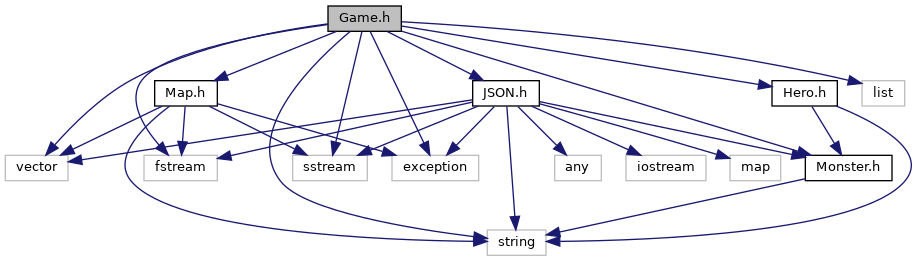
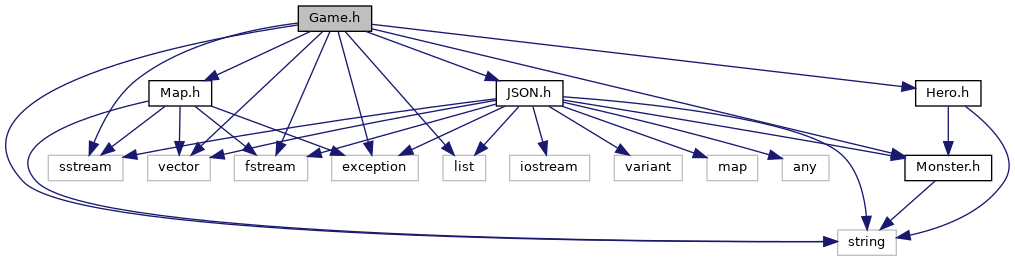
Update gh-pages to output generated at 74e3ce2

diff --git a/JSON_8h_source.html b/JSON_8h_source.html
@@ -79,60 +79,74 @@ $(function() {
 <div class="line"><a name="l00020"></a><span class="lineno">   20</span>&#160;<span class="preprocessor">#include &lt;fstream&gt;</span></div>
 <div class="line"><a name="l00021"></a><span class="lineno">   21</span>&#160;<span class="preprocessor">#include &lt;sstream&gt;</span></div>
 <div class="line"><a name="l00022"></a><span class="lineno">   22</span>&#160;<span class="preprocessor">#include &lt;iostream&gt;</span></div>
-<div class="line"><a name="l00023"></a><span class="lineno">   23</span>&#160; </div>
-<div class="line"><a name="l00024"></a><span class="lineno"><a class="line" href="classJSON.html">   24</a></span>&#160;<span class="keyword">class </span><a class="code" href="classJSON.html">JSON</a> {</div>
-<div class="line"><a name="l00025"></a><span class="lineno">   25</span>&#160;<span class="keyword">public</span>:</div>
-<div class="line"><a name="l00030"></a><span class="lineno">   30</span>&#160;    <a class="code" href="classJSON.html#aba4f484f3ee84128f50ffd4d3b20ccf1">JSON</a>(<span class="keyword">const</span> std::map&lt;std::string, std::any&gt;&amp;);</div>
-<div class="line"><a name="l00031"></a><span class="lineno">   31</span>&#160;        </div>
-<div class="line"><a name="l00032"></a><span class="lineno">   32</span>&#160;    <span class="keyword">template</span> &lt;<span class="keyword">typename</span> T&gt;</div>
-<div class="line"><a name="l00033"></a><span class="lineno">   33</span>&#160;    T get(std::string key){</div>
-<div class="line"><a name="l00034"></a><span class="lineno">   34</span>&#160;        std::string value =  std::any_cast&lt;std::string&gt;(content[key]);</div>
-<div class="line"><a name="l00035"></a><span class="lineno">   35</span>&#160;        std::any converted;</div>
-<div class="line"><a name="l00036"></a><span class="lineno">   36</span>&#160;        <span class="keywordflow">if</span> (std::is_same&lt;T, int&gt;::value){</div>
-<div class="line"><a name="l00037"></a><span class="lineno">   37</span>&#160;            converted=(std::stoi(value));</div>
-<div class="line"><a name="l00038"></a><span class="lineno">   38</span>&#160;        }<span class="keywordflow">else</span> <span class="keywordflow">if</span>(std::is_same&lt;T, float&gt;::value){</div>
-<div class="line"><a name="l00039"></a><span class="lineno">   39</span>&#160;            converted=(std::stof(value));</div>
-<div class="line"><a name="l00040"></a><span class="lineno">   40</span>&#160;        }<span class="keywordflow">else</span> <span class="keywordflow">if</span>(std::is_same&lt;T, std::string&gt;::value){</div>
-<div class="line"><a name="l00041"></a><span class="lineno">   41</span>&#160;            converted=value;</div>
-<div class="line"><a name="l00042"></a><span class="lineno">   42</span>&#160;        }</div>
-<div class="line"><a name="l00043"></a><span class="lineno">   43</span>&#160;        </div>
-<div class="line"><a name="l00044"></a><span class="lineno">   44</span>&#160;        <span class="keywordflow">return</span> std::any_cast&lt;T&gt;(converted);</div>
-<div class="line"><a name="l00045"></a><span class="lineno">   45</span>&#160;    }</div>
-<div class="line"><a name="l00046"></a><span class="lineno">   46</span>&#160; </div>
-<div class="line"><a name="l00047"></a><span class="lineno">   47</span>&#160;    <span class="keywordtype">int</span> count(std::string);</div>
-<div class="line"><a name="l00055"></a><span class="lineno">   55</span>&#160;    <span class="keywordtype">bool</span> <a class="code" href="classJSON.html#acd65a0b1e2ceda335856f470a76adff0">isNumber</a>(<span class="keyword">const</span> std::string&amp;);</div>
-<div class="line"><a name="l00062"></a><span class="lineno">   62</span>&#160;    <span class="keyword">static</span> std::vector&lt;std::string&gt; <a class="code" href="classJSON.html#a632fd6947dc1de83bd3088c0774d1295">split</a>(<span class="keyword">const</span> std::string&amp;, <span class="keywordtype">char</span>);</div>
-<div class="line"><a name="l00069"></a><span class="lineno">   69</span>&#160;    <span class="keyword">static</span> std::vector&lt;std::string&gt; <a class="code" href="classJSON.html#a624b10e5bb22197f5e3818589afcb5a6">splitRowsJSON</a>(<span class="keyword">const</span> std::string&amp;);</div>
-<div class="line"><a name="l00076"></a><span class="lineno">   76</span>&#160;    <span class="keyword">static</span> std::string <a class="code" href="classJSON.html#af7161d083a7d4ea5ff0c76bb8a2fe7f4">removeJSONSpaces</a>(std::string);</div>
-<div class="line"><a name="l00083"></a><span class="lineno">   83</span>&#160;    <span class="keyword">static</span> <a class="code" href="classJSON.html">JSON</a> <a class="code" href="classJSON.html#a95fcb53d04ca4e9fcd8117880437ca4d">parseString</a>(<span class="keyword">const</span> std::string&amp;);</div>
-<div class="line"><a name="l00090"></a><span class="lineno">   90</span>&#160;    <span class="keyword">static</span> <a class="code" href="classJSON.html">JSON</a> <a class="code" href="classJSON.html#a928b250d7dcb828898e6814cb32c6182">parseStream</a>(std::ifstream&amp;);</div>
-<div class="line"><a name="l00097"></a><span class="lineno">   97</span>&#160;    <span class="keyword">static</span> <a class="code" href="classJSON.html">JSON</a> <a class="code" href="classJSON.html#a1c04537d4deced04d31fd48ae7009c54">parseFromFile</a>(<span class="keyword">const</span> std::string&amp;);</div>
-<div class="line"><a name="l00103"></a><span class="lineno">  103</span>&#160;    <span class="keywordtype">void</span> <a class="code" href="classJSON.html#a820f6bd7c781c3710592ddc7c66233a3">deleteCharacters</a>(<span class="keyword">const</span> std::vector&lt;Monster*&gt;&amp;);</div>
-<div class="line"><a name="l00104"></a><span class="lineno">  104</span>&#160; </div>
-<div class="line"><a name="l00105"></a><span class="lineno"><a class="line" href="classJSON_1_1ParseException.html">  105</a></span>&#160;    <span class="keyword">class </span><a class="code" href="classJSON_1_1ParseException.html">ParseException</a> : std::exception</div>
-<div class="line"><a name="l00106"></a><span class="lineno">  106</span>&#160;    {</div>
-<div class="line"><a name="l00107"></a><span class="lineno">  107</span>&#160;        <span class="keyword">public</span>:</div>
-<div class="line"><a name="l00108"></a><span class="lineno">  108</span>&#160;        <a class="code" href="classJSON_1_1ParseException.html">ParseException</a>(){}</div>
-<div class="line"><a name="l00109"></a><span class="lineno">  109</span>&#160;    };</div>
-<div class="line"><a name="l00110"></a><span class="lineno">  110</span>&#160; </div>
-<div class="line"><a name="l00111"></a><span class="lineno">  111</span>&#160;    <span class="keyword">protected</span>:</div>
-<div class="line"><a name="l00112"></a><span class="lineno">  112</span>&#160;        std::map&lt;std::string, std::any&gt; content;</div>
-<div class="line"><a name="l00113"></a><span class="lineno">  113</span>&#160;};</div>
-<div class="line"><a name="l00114"></a><span class="lineno">  114</span>&#160; </div>
-<div class="line"><a name="l00115"></a><span class="lineno">  115</span>&#160;<span class="preprocessor">#endif</span></div>
+<div class="line"><a name="l00023"></a><span class="lineno">   23</span>&#160;<span class="preprocessor">#include &lt;variant&gt;</span></div>
+<div class="line"><a name="l00024"></a><span class="lineno">   24</span>&#160;<span class="preprocessor">#include &lt;list&gt;</span></div>
+<div class="line"><a name="l00025"></a><span class="lineno"><a class="line" href="classJSON.html">   25</a></span>&#160;<span class="keyword">class </span><a class="code" href="classJSON.html">JSON</a> {</div>
+<div class="line"><a name="l00026"></a><span class="lineno">   26</span>&#160;<span class="keyword">public</span>:</div>
+<div class="line"><a name="l00031"></a><span class="lineno">   31</span>&#160;    <a class="code" href="classJSON.html#aba4f484f3ee84128f50ffd4d3b20ccf1">JSON</a>(<span class="keyword">const</span> std::map&lt;std::string, std::any&gt;&amp;);</div>
+<div class="line"><a name="l00032"></a><span class="lineno">   32</span>&#160; </div>
+<div class="line"><a name="l00033"></a><span class="lineno">   33</span>&#160;    <span class="keyword">typedef</span> std::list&lt;std::variant&lt;std::string, int, double, float&gt;&gt; list; </div>
+<div class="line"><a name="l00034"></a><span class="lineno">   34</span>&#160;    </div>
+<div class="line"><a name="l00035"></a><span class="lineno">   35</span>&#160;<span class="comment">/*else if(std::is_same&lt;T, JSON::list&gt;::value){</span></div>
+<div class="line"><a name="l00036"></a><span class="lineno">   36</span>&#160;<span class="comment">            JSON::list myList;</span></div>
+<div class="line"><a name="l00037"></a><span class="lineno">   37</span>&#160;<span class="comment">            myList.push_back(&quot;asd&quot;);</span></div>
+<div class="line"><a name="l00038"></a><span class="lineno">   38</span>&#160;<span class="comment">            converted = myList;</span></div>
+<div class="line"><a name="l00039"></a><span class="lineno">   39</span>&#160;<span class="comment">        }</span></div>
+<div class="line"><a name="l00040"></a><span class="lineno">   40</span>&#160;<span class="comment">*/</span></div>
+<div class="line"><a name="l00041"></a><span class="lineno">   41</span>&#160; </div>
+<div class="line"><a name="l00042"></a><span class="lineno">   42</span>&#160;    <span class="keyword">template</span> &lt;<span class="keyword">typename</span> T&gt;</div>
+<div class="line"><a name="l00043"></a><span class="lineno">   43</span>&#160;    T get(std::string key){</div>
+<div class="line"><a name="l00044"></a><span class="lineno">   44</span>&#160;        std::string value =  std::any_cast&lt;std::string&gt;(content[key]);</div>
+<div class="line"><a name="l00045"></a><span class="lineno">   45</span>&#160;        std::any converted;</div>
+<div class="line"><a name="l00046"></a><span class="lineno">   46</span>&#160;        <span class="keywordflow">if</span> (std::is_same&lt;T, int&gt;::value){</div>
+<div class="line"><a name="l00047"></a><span class="lineno">   47</span>&#160;            converted=(std::stoi(value));</div>
+<div class="line"><a name="l00048"></a><span class="lineno">   48</span>&#160;        }<span class="keywordflow">else</span> <span class="keywordflow">if</span>(std::is_same&lt;T, float&gt;::value){</div>
+<div class="line"><a name="l00049"></a><span class="lineno">   49</span>&#160;            converted=(std::stof(value));</div>
+<div class="line"><a name="l00050"></a><span class="lineno">   50</span>&#160;        }<span class="keywordflow">else</span> <span class="keywordflow">if</span>(std::is_same&lt;T, std::string&gt;::value){</div>
+<div class="line"><a name="l00051"></a><span class="lineno">   51</span>&#160;            converted=value;</div>
+<div class="line"><a name="l00052"></a><span class="lineno">   52</span>&#160;        }<span class="keywordflow">if</span> (std::is_same&lt;T, JSON::list&gt;::value){</div>
+<div class="line"><a name="l00053"></a><span class="lineno">   53</span>&#160;            converted = listFromValues(value);</div>
+<div class="line"><a name="l00054"></a><span class="lineno">   54</span>&#160;        }</div>
+<div class="line"><a name="l00055"></a><span class="lineno">   55</span>&#160;        <span class="keywordflow">return</span> std::any_cast&lt;T&gt;(converted);</div>
+<div class="line"><a name="l00056"></a><span class="lineno">   56</span>&#160;    }</div>
+<div class="line"><a name="l00057"></a><span class="lineno">   57</span>&#160; </div>
+<div class="line"><a name="l00058"></a><span class="lineno">   58</span>&#160;    </div>
+<div class="line"><a name="l00059"></a><span class="lineno">   59</span>&#160; </div>
+<div class="line"><a name="l00060"></a><span class="lineno">   60</span>&#160;    <span class="keywordtype">int</span> count(std::string);</div>
+<div class="line"><a name="l00068"></a><span class="lineno">   68</span>&#160;    <span class="keywordtype">bool</span> <a class="code" href="classJSON.html#acd65a0b1e2ceda335856f470a76adff0">isNumber</a>(<span class="keyword">const</span> std::string&amp;);</div>
+<div class="line"><a name="l00075"></a><span class="lineno">   75</span>&#160;    <span class="keyword">static</span> std::vector&lt;std::string&gt; <a class="code" href="classJSON.html#a632fd6947dc1de83bd3088c0774d1295">split</a>(<span class="keyword">const</span> std::string&amp;, <span class="keywordtype">char</span>);</div>
+<div class="line"><a name="l00082"></a><span class="lineno">   82</span>&#160;    <span class="keyword">static</span> std::vector&lt;std::string&gt; <a class="code" href="classJSON.html#a624b10e5bb22197f5e3818589afcb5a6">splitRowsJSON</a>(<span class="keyword">const</span> std::string&amp;);</div>
+<div class="line"><a name="l00089"></a><span class="lineno">   89</span>&#160;    <span class="keyword">static</span> std::string <a class="code" href="classJSON.html#af7161d083a7d4ea5ff0c76bb8a2fe7f4">removeJSONSpaces</a>(std::string);</div>
+<div class="line"><a name="l00096"></a><span class="lineno">   96</span>&#160;    <span class="keyword">static</span> <a class="code" href="classJSON.html">JSON</a> <a class="code" href="classJSON.html#a95fcb53d04ca4e9fcd8117880437ca4d">parseString</a>(<span class="keyword">const</span> std::string&amp;);</div>
+<div class="line"><a name="l00103"></a><span class="lineno">  103</span>&#160;    <span class="keyword">static</span> <a class="code" href="classJSON.html">JSON</a> <a class="code" href="classJSON.html#a928b250d7dcb828898e6814cb32c6182">parseStream</a>(std::ifstream&amp;);</div>
+<div class="line"><a name="l00110"></a><span class="lineno">  110</span>&#160;    <span class="keyword">static</span> <a class="code" href="classJSON.html">JSON</a> <a class="code" href="classJSON.html#a1c04537d4deced04d31fd48ae7009c54">parseFromFile</a>(<span class="keyword">const</span> std::string&amp;);</div>
+<div class="line"><a name="l00116"></a><span class="lineno">  116</span>&#160;    <span class="keywordtype">void</span> <a class="code" href="classJSON.html#a820f6bd7c781c3710592ddc7c66233a3">deleteCharacters</a>(<span class="keyword">const</span> std::vector&lt;Monster*&gt;&amp;);</div>
+<div class="line"><a name="l00117"></a><span class="lineno">  117</span>&#160; </div>
+<div class="line"><a name="l00118"></a><span class="lineno"><a class="line" href="classJSON_1_1ParseException.html">  118</a></span>&#160;    <span class="keyword">class </span><a class="code" href="classJSON_1_1ParseException.html">ParseException</a> : std::exception</div>
+<div class="line"><a name="l00119"></a><span class="lineno">  119</span>&#160;    {</div>
+<div class="line"><a name="l00120"></a><span class="lineno">  120</span>&#160;        <span class="keyword">public</span>:</div>
+<div class="line"><a name="l00121"></a><span class="lineno">  121</span>&#160;        <a class="code" href="classJSON_1_1ParseException.html">ParseException</a>(){}</div>
+<div class="line"><a name="l00122"></a><span class="lineno">  122</span>&#160;    };</div>
+<div class="line"><a name="l00123"></a><span class="lineno">  123</span>&#160; </div>
+<div class="line"><a name="l00124"></a><span class="lineno">  124</span>&#160;    <span class="keyword">protected</span>:</div>
+<div class="line"><a name="l00125"></a><span class="lineno">  125</span>&#160;        <span class="keyword">static</span> std::list&lt;std::variant&lt;std::string, int, double, float&gt;&gt; listFromValues(std::string);</div>
+<div class="line"><a name="l00126"></a><span class="lineno">  126</span>&#160;        std::map&lt;std::string, std::any&gt; content;</div>
+<div class="line"><a name="l00127"></a><span class="lineno">  127</span>&#160;};</div>
+<div class="line"><a name="l00128"></a><span class="lineno">  128</span>&#160; </div>
+<div class="line"><a name="l00129"></a><span class="lineno">  129</span>&#160;<span class="preprocessor">#endif</span></div>
 </div><!-- fragment --></div><!-- contents -->
 <div class="ttc" id="aclassJSON_html_a624b10e5bb22197f5e3818589afcb5a6"><div class="ttname"><a href="classJSON.html#a624b10e5bb22197f5e3818589afcb5a6">JSON::splitRowsJSON</a></div><div class="ttdeci">static std::vector&lt; std::string &gt; splitRowsJSON(const std::string &amp;)</div><div class="ttdoc">Specific splitting method for JSON files, responsible for finding the JSON rows in a given JSON strin...</div><div class="ttdef"><b>Definition:</b> JSON.cpp:46</div></div>
-<div class="ttc" id="aclassJSON_html_a820f6bd7c781c3710592ddc7c66233a3"><div class="ttname"><a href="classJSON.html#a820f6bd7c781c3710592ddc7c66233a3">JSON::deleteCharacters</a></div><div class="ttdeci">void deleteCharacters(const std::vector&lt; Monster * &gt; &amp;)</div><div class="ttdoc">Delete every existing Character object given as input.</div><div class="ttdef"><b>Definition:</b> JSON.cpp:89</div></div>
-<div class="ttc" id="aclassJSON_html_a928b250d7dcb828898e6814cb32c6182"><div class="ttname"><a href="classJSON.html#a928b250d7dcb828898e6814cb32c6182">JSON::parseStream</a></div><div class="ttdeci">static JSON parseStream(std::ifstream &amp;)</div><div class="ttdoc">JSON parser method, takes an ifstream as an input and returns an object of the JSON class.</div><div class="ttdef"><b>Definition:</b> JSON.cpp:149</div></div>
-<div class="ttc" id="aclassJSON_html_a95fcb53d04ca4e9fcd8117880437ca4d"><div class="ttname"><a href="classJSON.html#a95fcb53d04ca4e9fcd8117880437ca4d">JSON::parseString</a></div><div class="ttdeci">static JSON parseString(const std::string &amp;)</div><div class="ttdoc">JSON parser method. Takes a filepath as input and returns an object of the JSON class.</div><div class="ttdef"><b>Definition:</b> JSON.cpp:98</div></div>
-<div class="ttc" id="aclassJSON_html_af7161d083a7d4ea5ff0c76bb8a2fe7f4"><div class="ttname"><a href="classJSON.html#af7161d083a7d4ea5ff0c76bb8a2fe7f4">JSON::removeJSONSpaces</a></div><div class="ttdeci">static std::string removeJSONSpaces(std::string)</div><div class="ttdoc">Specific whitespace remover method for JSON files, responsible for removing whitespaces from a given ...</div><div class="ttdef"><b>Definition:</b> JSON.cpp:71</div></div>
+<div class="ttc" id="aclassJSON_html_a820f6bd7c781c3710592ddc7c66233a3"><div class="ttname"><a href="classJSON.html#a820f6bd7c781c3710592ddc7c66233a3">JSON::deleteCharacters</a></div><div class="ttdeci">void deleteCharacters(const std::vector&lt; Monster * &gt; &amp;)</div><div class="ttdoc">Delete every existing Character object given as input.</div><div class="ttdef"><b>Definition:</b> JSON.cpp:94</div></div>
+<div class="ttc" id="aclassJSON_html_a928b250d7dcb828898e6814cb32c6182"><div class="ttname"><a href="classJSON.html#a928b250d7dcb828898e6814cb32c6182">JSON::parseStream</a></div><div class="ttdeci">static JSON parseStream(std::ifstream &amp;)</div><div class="ttdoc">JSON parser method, takes an ifstream as an input and returns an object of the JSON class.</div><div class="ttdef"><b>Definition:</b> JSON.cpp:175</div></div>
+<div class="ttc" id="aclassJSON_html_a95fcb53d04ca4e9fcd8117880437ca4d"><div class="ttname"><a href="classJSON.html#a95fcb53d04ca4e9fcd8117880437ca4d">JSON::parseString</a></div><div class="ttdeci">static JSON parseString(const std::string &amp;)</div><div class="ttdoc">JSON parser method. Takes a filepath as input and returns an object of the JSON class.</div><div class="ttdef"><b>Definition:</b> JSON.cpp:121</div></div>
+<div class="ttc" id="aclassJSON_html_af7161d083a7d4ea5ff0c76bb8a2fe7f4"><div class="ttname"><a href="classJSON.html#af7161d083a7d4ea5ff0c76bb8a2fe7f4">JSON::removeJSONSpaces</a></div><div class="ttdeci">static std::string removeJSONSpaces(std::string)</div><div class="ttdoc">Specific whitespace remover method for JSON files, responsible for removing whitespaces from a given ...</div><div class="ttdef"><b>Definition:</b> JSON.cpp:76</div></div>
 <div class="ttc" id="aclassJSON_html_a632fd6947dc1de83bd3088c0774d1295"><div class="ttname"><a href="classJSON.html#a632fd6947dc1de83bd3088c0774d1295">JSON::split</a></div><div class="ttdeci">static std::vector&lt; std::string &gt; split(const std::string &amp;, char)</div><div class="ttdoc">Utility method for handling strings, works similarly to other programming languages' split method.</div><div class="ttdef"><b>Definition:</b> JSON.cpp:18</div></div>
-<div class="ttc" id="aclassJSON_html_a1c04537d4deced04d31fd48ae7009c54"><div class="ttname"><a href="classJSON.html#a1c04537d4deced04d31fd48ae7009c54">JSON::parseFromFile</a></div><div class="ttdeci">static JSON parseFromFile(const std::string &amp;)</div><div class="ttdoc">JSON parser method, takes a string as an input and returns an object of the JSON class.</div><div class="ttdef"><b>Definition:</b> JSON.cpp:166</div></div>
+<div class="ttc" id="aclassJSON_html_a1c04537d4deced04d31fd48ae7009c54"><div class="ttname"><a href="classJSON.html#a1c04537d4deced04d31fd48ae7009c54">JSON::parseFromFile</a></div><div class="ttdeci">static JSON parseFromFile(const std::string &amp;)</div><div class="ttdoc">JSON parser method, takes a string as an input and returns an object of the JSON class.</div><div class="ttdef"><b>Definition:</b> JSON.cpp:192</div></div>
 <div class="ttc" id="aclassJSON_html_acd65a0b1e2ceda335856f470a76adff0"><div class="ttname"><a href="classJSON.html#acd65a0b1e2ceda335856f470a76adff0">JSON::isNumber</a></div><div class="ttdeci">bool isNumber(const std::string &amp;)</div><div class="ttdoc">Method for checking if a given input is a number or not.</div></div>
-<div class="ttc" id="aclassJSON_html"><div class="ttname"><a href="classJSON.html">JSON</a></div><div class="ttdoc">JSON namespace.</div><div class="ttdef"><b>Definition:</b> JSON.h:24</div></div>
+<div class="ttc" id="aclassJSON_html"><div class="ttname"><a href="classJSON.html">JSON</a></div><div class="ttdoc">JSON namespace.</div><div class="ttdef"><b>Definition:</b> JSON.h:25</div></div>
 <div class="ttc" id="aclassJSON_html_aba4f484f3ee84128f50ffd4d3b20ccf1"><div class="ttname"><a href="classJSON.html#aba4f484f3ee84128f50ffd4d3b20ccf1">JSON::JSON</a></div><div class="ttdeci">JSON(const std::map&lt; std::string, std::any &gt; &amp;)</div><div class="ttdoc">Constructor for JSON object.</div><div class="ttdef"><b>Definition:</b> JSON.cpp:11</div></div>
 <div class="ttc" id="aMonster_8h_html"><div class="ttname"><a href="Monster_8h.html">Monster.h</a></div><div class="ttdoc">Monster class.</div></div>
-<div class="ttc" id="aclassJSON_1_1ParseException_html"><div class="ttname"><a href="classJSON_1_1ParseException.html">JSON::ParseException</a></div><div class="ttdef"><b>Definition:</b> JSON.h:105</div></div>
+<div class="ttc" id="aclassJSON_1_1ParseException_html"><div class="ttname"><a href="classJSON_1_1ParseException.html">JSON::ParseException</a></div><div class="ttdef"><b>Definition:</b> JSON.h:118</div></div>
 <!-- start footer part -->
 <hr class="footer"/><address class="footer"><small>
 Generated by &#160;<a href="http://www.doxygen.org/index.html">

diff --git a/classJSON.html b/classJSON.html
@@ -65,8 +65,10 @@ $(function() {
 <div class="header">
   <div class="summary">
 <a href="#nested-classes">Classes</a> &#124;
+<a href="#pub-types">Public Types</a> &#124;
 <a href="#pub-methods">Public Member Functions</a> &#124;
 <a href="#pub-static-methods">Static Public Member Functions</a> &#124;
+<a href="#pro-static-methods">Static Protected Member Functions</a> &#124;
 <a href="#pro-attribs">Protected Attributes</a> &#124;
 <a href="classJSON-members.html">List of all members</a>  </div>
   <div class="headertitle">
@@ -83,6 +85,12 @@ $(function() {
 Classes</h2></td></tr>
 <tr class="memitem:"><td class="memItemLeft" align="right" valign="top">class &#160;</td><td class="memItemRight" valign="bottom"><a class="el" href="classJSON_1_1ParseException.html">ParseException</a></td></tr>
 <tr class="separator:"><td class="memSeparator" colspan="2">&#160;</td></tr>
+</table><table class="memberdecls">
+<tr class="heading"><td colspan="2"><h2 class="groupheader"><a name="pub-types"></a>
+Public Types</h2></td></tr>
+<tr class="memitem:a34be05a4f84755e92cdd408ce49b07fe"><td class="memItemLeft" align="right" valign="top"><a id="a34be05a4f84755e92cdd408ce49b07fe"></a>
+typedef std::list&lt; std::variant&lt; std::string, int, double, float &gt; &gt;&#160;</td><td class="memItemRight" valign="bottom"><b>list</b></td></tr>
+<tr class="separator:a34be05a4f84755e92cdd408ce49b07fe"><td class="memSeparator" colspan="2">&#160;</td></tr>
 </table><table class="memberdecls">
 <tr class="heading"><td colspan="2"><h2 class="groupheader"><a name="pub-methods"></a>
 Public Member Functions</h2></td></tr>
@@ -123,6 +131,12 @@ Static Public Member Functions</h2></td></tr>
 <tr class="memitem:a1c04537d4deced04d31fd48ae7009c54"><td class="memItemLeft" align="right" valign="top">static <a class="el" href="classJSON.html">JSON</a>&#160;</td><td class="memItemRight" valign="bottom"><a class="el" href="classJSON.html#a1c04537d4deced04d31fd48ae7009c54">parseFromFile</a> (const std::string &amp;)</td></tr>
 <tr class="memdesc:a1c04537d4deced04d31fd48ae7009c54"><td class="mdescLeft">&#160;</td><td class="mdescRight"><a class="el" href="classJSON.html" title="JSON namespace.">JSON</a> parser method, takes a string as an input and returns an object of the <a class="el" href="classJSON.html" title="JSON namespace.">JSON</a> class.  <a href="classJSON.html#a1c04537d4deced04d31fd48ae7009c54">More...</a><br /></td></tr>
 <tr class="separator:a1c04537d4deced04d31fd48ae7009c54"><td class="memSeparator" colspan="2">&#160;</td></tr>
+</table><table class="memberdecls">
+<tr class="heading"><td colspan="2"><h2 class="groupheader"><a name="pro-static-methods"></a>
+Static Protected Member Functions</h2></td></tr>
+<tr class="memitem:a967961c711f0de563bfff905e06175bc"><td class="memItemLeft" align="right" valign="top"><a id="a967961c711f0de563bfff905e06175bc"></a>
+static std::list&lt; std::variant&lt; std::string, int, double, float &gt; &gt;&#160;</td><td class="memItemRight" valign="bottom"><b>listFromValues</b> (std::string)</td></tr>
+<tr class="separator:a967961c711f0de563bfff905e06175bc"><td class="memSeparator" colspan="2">&#160;</td></tr>
 </table><table class="memberdecls">
 <tr class="heading"><td colspan="2"><h2 class="groupheader"><a name="pro-attribs"></a>
 Protected Attributes</h2></td></tr>

diff --git a/Game_8h.html b/Game_8h.html
@@ -87,20 +87,21 @@ Include dependency graph for Game.h:</div>
 <div class="dyncontent">
 <div class="center"><img src="Game_8h__incl.png" border="0" usemap="#Game_8h" alt=""/></div>
 <map name="Game_8h" id="Game_8h">
-<area shape="rect" title="Game class." alt="" coords="328,5,401,32"/>
-<area shape="rect" title=" " alt="" coords="487,229,546,256"/>
-<area shape="rect" title=" " alt="" coords="5,155,68,181"/>
-<area shape="rect" title=" " alt="" coords="144,155,217,181"/>
-<area shape="rect" title=" " alt="" coords="293,155,367,181"/>
-<area shape="rect" title=" " alt="" coords="392,155,479,181"/>
-<area shape="rect" title=" " alt="" coords="862,80,905,107"/>
-<area shape="rect" href="Hero_8h.html" title="Hero class." alt="" coords="772,80,837,107"/>
-<area shape="rect" href="Monster_8h.html" title="Monster class." alt="" coords="805,155,892,181"/>
-<area shape="rect" href="Map_8h.html" title="Map class." alt="" coords="155,80,217,107"/>
-<area shape="rect" href="JSON_8h.html" title=" " alt="" coords="473,80,539,107"/>
-<area shape="rect" title=" " alt="" coords="730,155,781,181"/>
-<area shape="rect" title=" " alt="" coords="555,155,601,181"/>
-<area shape="rect" title=" " alt="" coords="626,155,706,181"/>
+<area shape="rect" title="Game class." alt="" coords="298,5,372,32"/>
+<area shape="rect" title=" " alt="" coords="838,229,896,256"/>
+<area shape="rect" title=" " alt="" coords="148,155,210,181"/>
+<area shape="rect" title=" " alt="" coords="234,155,308,181"/>
+<area shape="rect" title=" " alt="" coords="48,155,123,181"/>
+<area shape="rect" title=" " alt="" coords="332,155,418,181"/>
+<area shape="rect" title=" " alt="" coords="443,155,486,181"/>
+<area shape="rect" href="Hero_8h.html" title="Hero class." alt="" coords="916,80,981,107"/>
+<area shape="rect" href="Monster_8h.html" title="Monster class." alt="" coords="905,155,992,181"/>
+<area shape="rect" href="Map_8h.html" title="Map class." alt="" coords="149,80,212,107"/>
+<area shape="rect" href="JSON_8h.html" title=" " alt="" coords="496,80,563,107"/>
+<area shape="rect" title=" " alt="" coords="707,155,758,181"/>
+<area shape="rect" title=" " alt="" coords="782,155,829,181"/>
+<area shape="rect" title=" " alt="" coords="510,155,590,181"/>
+<area shape="rect" title=" " alt="" coords="614,155,682,181"/>
 </map>
 </div>
 </div>

diff --git a/classJSON-members.html b/classJSON-members.html
@@ -76,6 +76,8 @@ $(function() {
   <tr bgcolor="#f0f0f0"><td class="entry"><b>get</b>(std::string key) (defined in <a class="el" href="classJSON.html">JSON</a>)</td><td class="entry"><a class="el" href="classJSON.html">JSON</a></td><td class="entry"><span class="mlabel">inline</span></td></tr>
   <tr class="even"><td class="entry"><a class="el" href="classJSON.html#acd65a0b1e2ceda335856f470a76adff0">isNumber</a>(const std::string &amp;)</td><td class="entry"><a class="el" href="classJSON.html">JSON</a></td><td class="entry"></td></tr>
   <tr><td class="entry"><a class="el" href="classJSON.html#aba4f484f3ee84128f50ffd4d3b20ccf1">JSON</a>(const std::map&lt; std::string, std::any &gt; &amp;)</td><td class="entry"><a class="el" href="classJSON.html">JSON</a></td><td class="entry"></td></tr>
+  <tr bgcolor="#f0f0f0" class="even"><td class="entry"><b>list</b> typedef (defined in <a class="el" href="classJSON.html">JSON</a>)</td><td class="entry"><a class="el" href="classJSON.html">JSON</a></td><td class="entry"></td></tr>
+  <tr bgcolor="#f0f0f0"><td class="entry"><b>listFromValues</b>(std::string) (defined in <a class="el" href="classJSON.html">JSON</a>)</td><td class="entry"><a class="el" href="classJSON.html">JSON</a></td><td class="entry"><span class="mlabel">protected</span><span class="mlabel">static</span></td></tr>
   <tr class="even"><td class="entry"><a class="el" href="classJSON.html#a1c04537d4deced04d31fd48ae7009c54">parseFromFile</a>(const std::string &amp;)</td><td class="entry"><a class="el" href="classJSON.html">JSON</a></td><td class="entry"><span class="mlabel">static</span></td></tr>
   <tr><td class="entry"><a class="el" href="classJSON.html#a928b250d7dcb828898e6814cb32c6182">parseStream</a>(std::ifstream &amp;)</td><td class="entry"><a class="el" href="classJSON.html">JSON</a></td><td class="entry"><span class="mlabel">static</span></td></tr>
   <tr class="even"><td class="entry"><a class="el" href="classJSON.html#a95fcb53d04ca4e9fcd8117880437ca4d">parseString</a>(const std::string &amp;)</td><td class="entry"><a class="el" href="classJSON.html">JSON</a></td><td class="entry"><span class="mlabel">static</span></td></tr>

diff --git a/JSON_8h.html b/JSON_8h.html
@@ -78,12 +78,14 @@ $(function() {
 <code>#include &lt;fstream&gt;</code><br />
 <code>#include &lt;sstream&gt;</code><br />
 <code>#include &lt;iostream&gt;</code><br />
+<code>#include &lt;variant&gt;</code><br />
+<code>#include &lt;list&gt;</code><br />
 </div><div class="textblock"><div class="dynheader">
 Include dependency graph for JSON.h:</div>
 <div class="dyncontent">
 <div class="center"><img src="JSON_8h__incl.png" border="0" usemap="#JSON_8h" alt=""/></div>
 <map name="JSON_8h" id="JSON_8h">
-<area shape="rect" title=" " alt="" coords="358,5,425,32"/>
+<area shape="rect" title=" " alt="" coords="431,5,498,32"/>
 <area shape="rect" title=" " alt="" coords="5,80,92,107"/>
 <area shape="rect" title=" " alt="" coords="185,155,243,181"/>
 <area shape="rect" title=" " alt="" coords="168,80,231,107"/>
@@ -93,6 +95,8 @@ Include dependency graph for JSON.h:</div>
 <area shape="rect" title=" " alt="" coords="512,80,585,107"/>
 <area shape="rect" title=" " alt="" coords="610,80,685,107"/>
 <area shape="rect" title=" " alt="" coords="709,80,789,107"/>
+<area shape="rect" title=" " alt="" coords="813,80,881,107"/>
+<area shape="rect" title=" " alt="" coords="906,80,949,107"/>
 </map>
 </div>
 </div><div class="textblock"><div class="dynheader">
